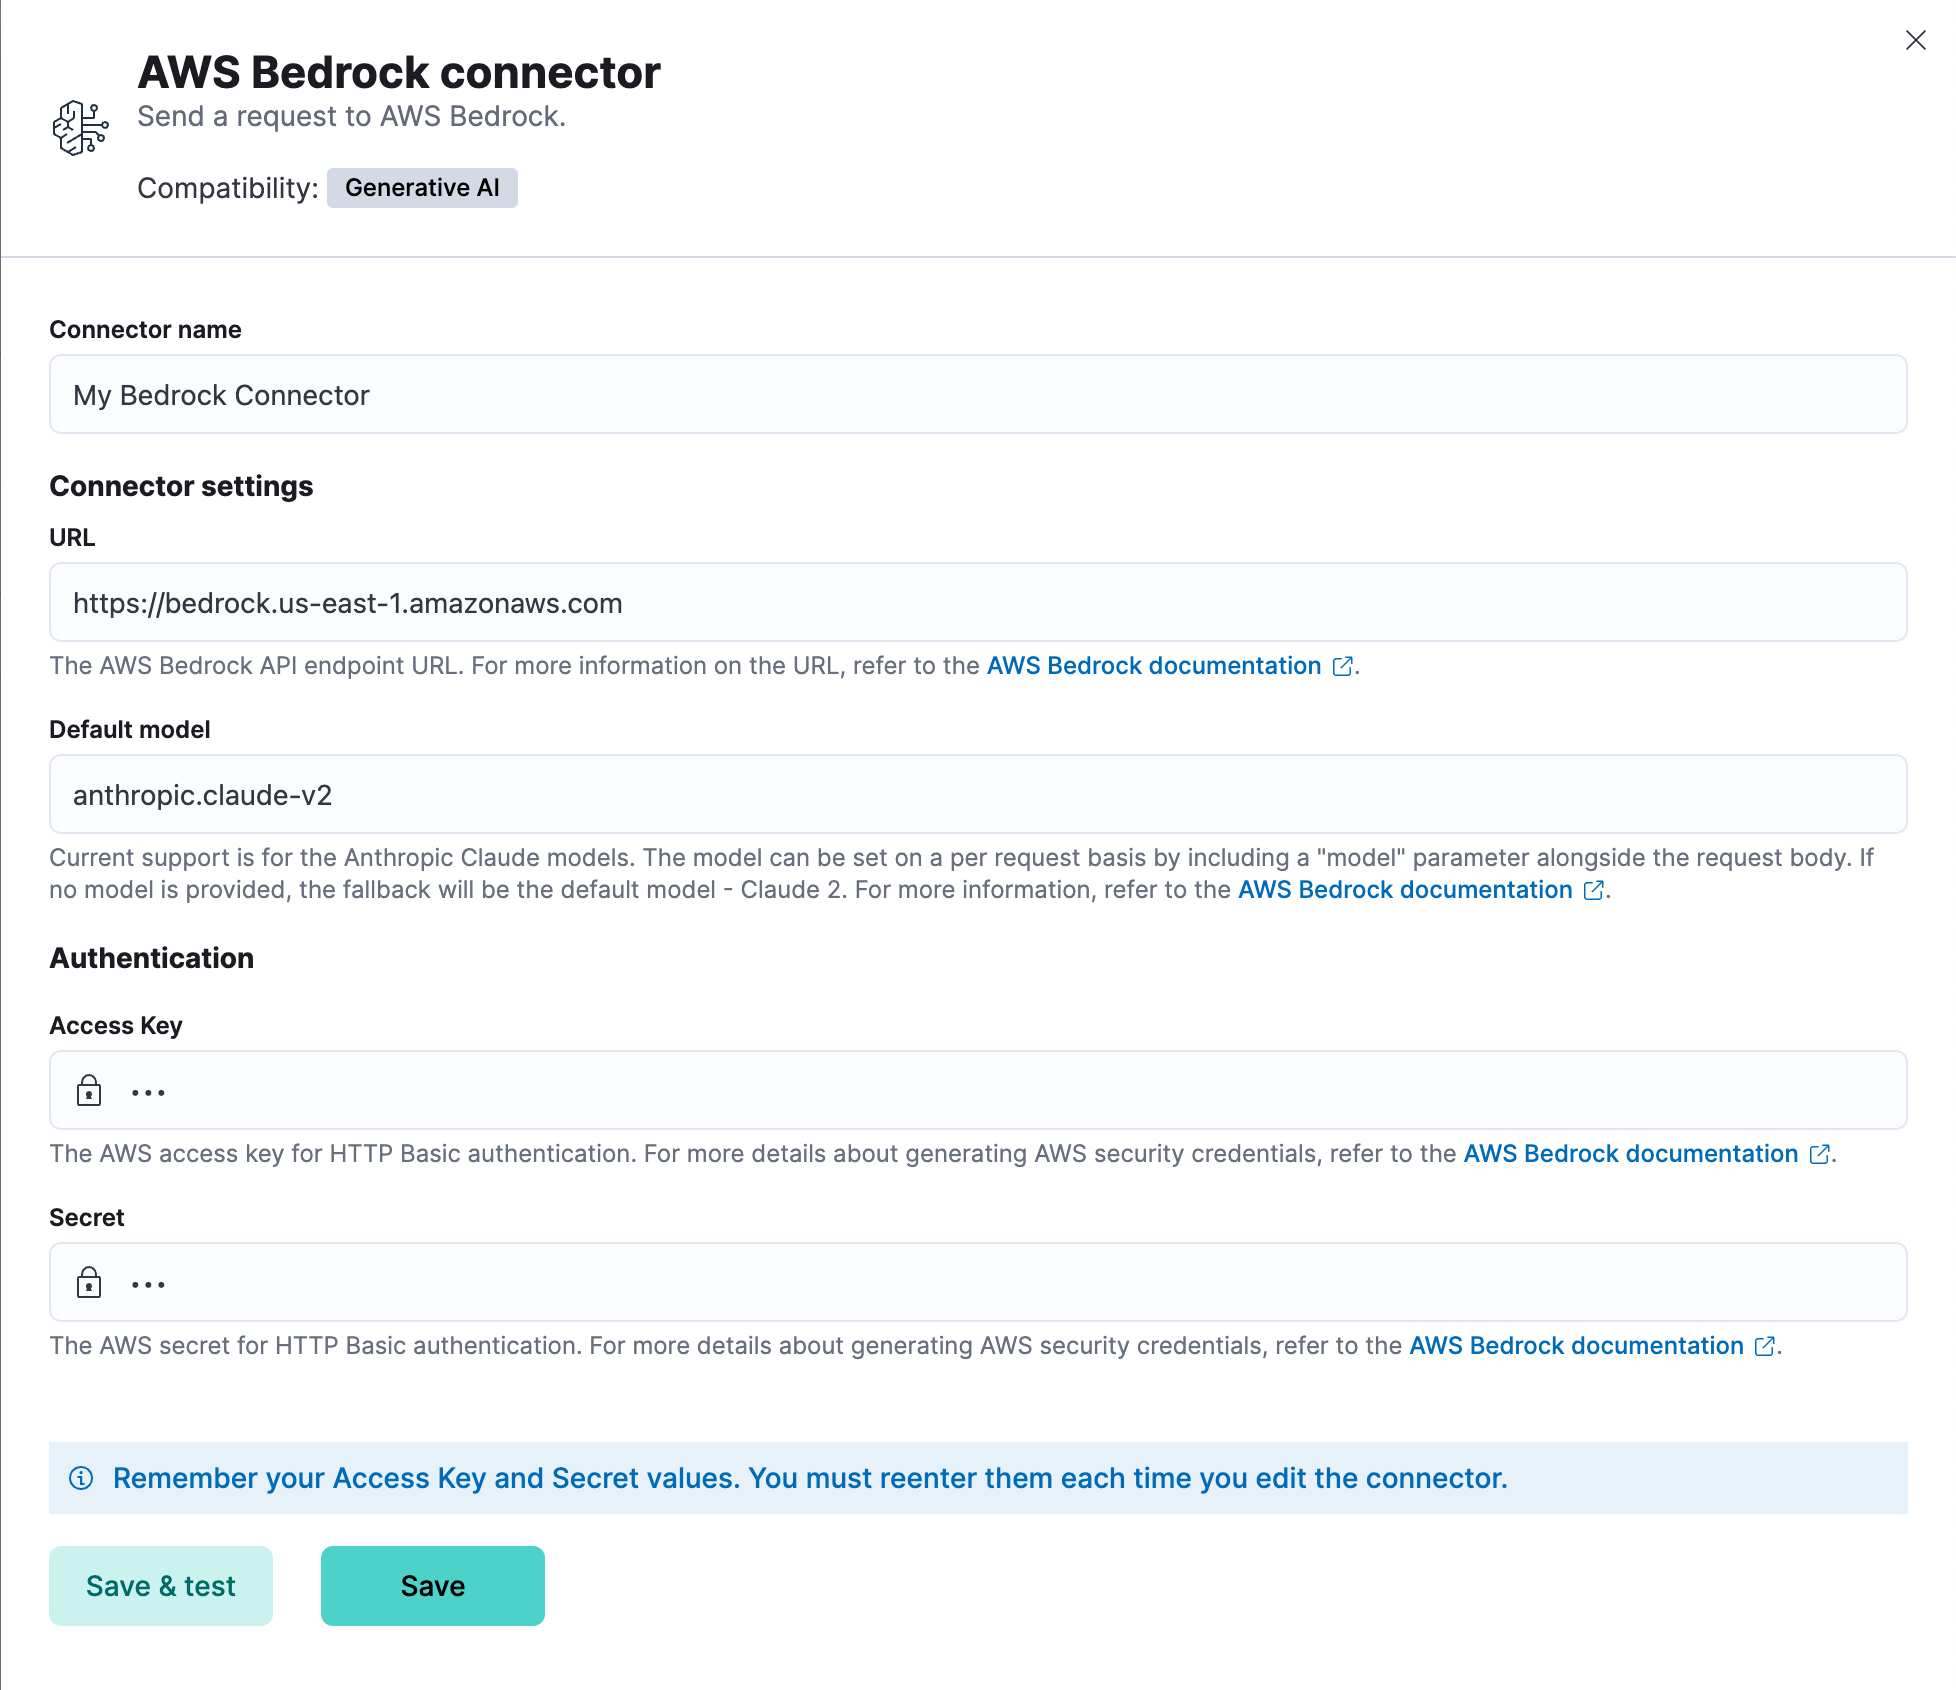
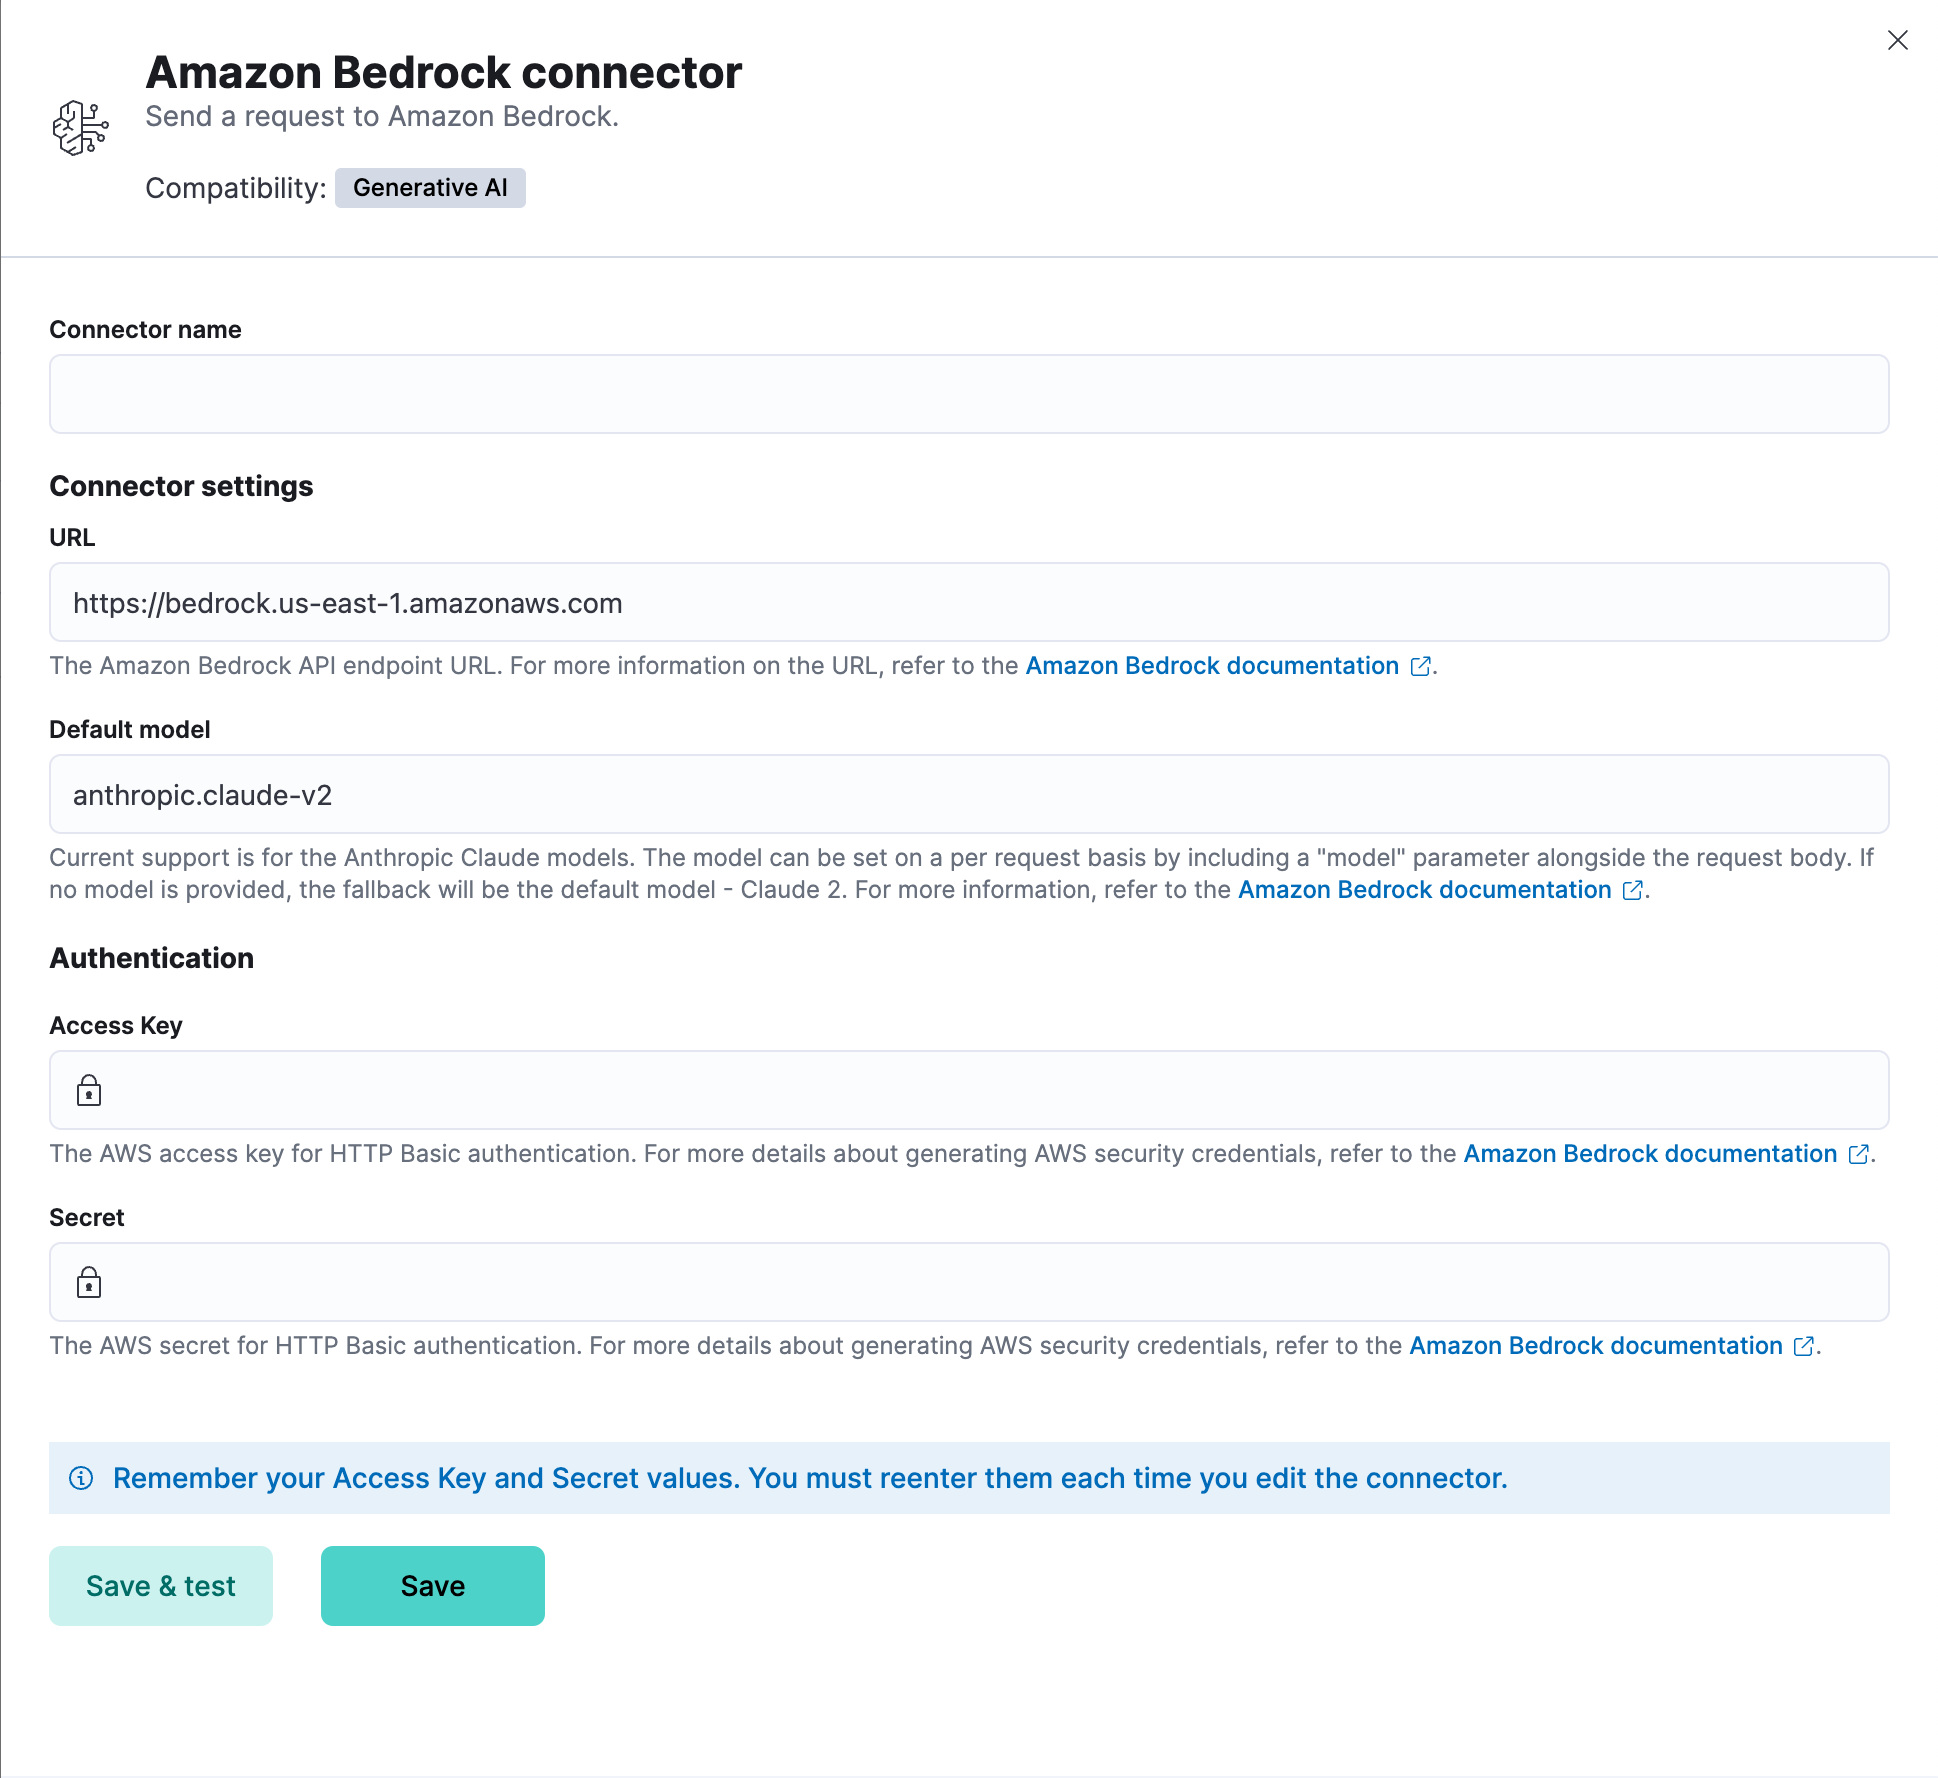
[Security solution] Rename connector from AWS Bedrock to Amazon Bedrock (#169025)

Changed region(s): [[0.0, 0.1846, 0.9907, 0.9846], [0.031, 0.0308, 0.3715, 0.1231]]

diff --git a/x-pack/plugins/stack_connectors/server/connector_types/bedrock/index.test.ts b/x-pack/plugins/stack_connectors/server/connector_types/bedrock/index.test.ts
@@ -33,9 +33,9 @@ describe('Bedrock Connector', () => {
     configurationUtilities = actionsConfigMock.create();
     connectorType = getConnectorType();
   });
-  test('exposes the connector as `AWS Bedrock` with id `.bedrock`', () => {
+  test('exposes the connector as `Amazon Bedrock` with id `.bedrock`', () => {
     expect(connectorType.id).toEqual('.bedrock');
-    expect(connectorType.name).toEqual('AWS Bedrock');
+    expect(connectorType.name).toEqual('Amazon Bedrock');
   });
   describe('config validation', () => {
     test('config validation passes when only required fields are provided', () => {
@@ -55,7 +55,7 @@ describe('Bedrock Connector', () => {
       expect(() => {
         configValidator(config, { configurationUtilities });
       }).toThrowErrorMatchingInlineSnapshot(
-        '"Error configuring AWS Bedrock action: Error: URL Error: Invalid URL: example.com/do-something"'
+        '"Error configuring Amazon Bedrock action: Error: URL Error: Invalid URL: example.com/do-something"'
       );
     });
 
@@ -75,7 +75,7 @@ describe('Bedrock Connector', () => {
       expect(() => {
         configValidator(config, { configurationUtilities: configUtils });
       }).toThrowErrorMatchingInlineSnapshot(
-        `"Error configuring AWS Bedrock action: Error: error validating url: target url is not present in allowedHosts"`
+        `"Error configuring Amazon Bedrock action: Error: error validating url: target url is not present in allowedHosts"`
       );
     });
   });

diff --git a/x-pack/test/alerting_api_integration/security_and_spaces/group2/tests/actions/connector_types/bedrock.ts b/x-pack/test/alerting_api_integration/security_and_spaces/group2/tests/actions/connector_types/bedrock.ts
@@ -160,7 +160,7 @@ export default function bedrockTest({ getService }: FtrProviderContext) {
               statusCode: 400,
               error: 'Bad Request',
               message:
-                'error validating action type config: Error configuring AWS Bedrock action: Error: error validating url: target url "http://bedrock.mynonexistent.com" is not added to the Kibana config xpack.actions.allowedHosts',
+                'error validating action type config: Error configuring Amazon Bedrock action: Error: error validating url: target url "http://bedrock.mynonexistent.com" is not added to the Kibana config xpack.actions.allowedHosts',
             });
           });
       });
@@ -280,7 +280,7 @@ export default function bedrockTest({ getService }: FtrProviderContext) {
             status: 'error',
             retry: true,
             message: 'an error occurred while running the action',
-            service_message: `Sub action "invalidAction" is not registered. Connector id: ${bedrockActionId}. Connector name: AWS Bedrock. Connector type: .bedrock`,
+            service_message: `Sub action "invalidAction" is not registered. Connector id: ${bedrockActionId}. Connector name: Amazon Bedrock. Connector type: .bedrock`,
           });
         });
       });

diff --git a/x-pack/packages/kbn-elastic-assistant/impl/connectorland/connector_selector_inline/action_type_selector_modal.tsx b/x-pack/packages/kbn-elastic-assistant/impl/connectorland/connector_selector_inline/action_type_selector_modal.tsx
@@ -18,6 +18,7 @@ import {
 } from '@elastic/eui';
 import { ActionType } from '@kbn/actions-plugin/common';
 import { ActionTypeRegistryContract } from '@kbn/triggers-actions-ui-plugin/public';
+import { css } from '@emotion/css/dist/emotion-css.cjs';
 import * as i18n from '../translations';
 
 interface Props {
@@ -26,6 +27,12 @@ interface Props {
   onClose: () => void;
   onSelect: (actionType: ActionType) => void;
 }
+const itemClassName = css`
+  .euiKeyPadMenuItem__label {
+    white-space: nowrap;
+    overflow: hidden;
+  }
+`;
 
 export const ActionTypeSelectorModal = ({
   actionTypes,
@@ -46,6 +53,7 @@ export const ActionTypeSelectorModal = ({
             return (
               <EuiFlexItem data-test-subj="action-option" key={actionType.id} grow={false}>
                 <EuiKeyPadMenuItem
+                  className={itemClassName}
                   key={actionType.id}
                   isDisabled={!actionType.enabled}
                   label={actionType.name}

diff --git a/x-pack/packages/kbn-elastic-assistant/impl/content/prompts/welcome/translations.ts b/x-pack/packages/kbn-elastic-assistant/impl/content/prompts/welcome/translations.ts
@@ -19,7 +19,7 @@ export const WELCOME_GENERAL_2 = i18n.translate(
   'xpack.elasticAssistant.securityAssistant.content.prompts.welcome.welcomeGeneral2Prompt',
   {
     defaultMessage:
-      "First things first, we'll need to set up a Generative AI Connector to get this chat experience going! With the Generative AI Connector, you'll be able to configure access to either an OpenAI service or an AWS Bedrock service, but you better believe you'll be able to deploy your own models within your Elastic Cloud instance and use those here in the future... 😉",
+      "First things first, we'll need to set up a Generative AI Connector to get this chat experience going! With the Generative AI Connector, you'll be able to configure access to either an OpenAI service or an Amazon Bedrock service, but you better believe you'll be able to deploy your own models within your Elastic Cloud instance and use those here in the future... 😉",
   }
 );
 

diff --git a/x-pack/plugins/elastic_assistant/server/routes/evaluate/utils.ts b/x-pack/plugins/elastic_assistant/server/routes/evaluate/utils.ts
@@ -23,7 +23,7 @@ export const getLlmType = (connectorId: string, connectors: ActionResult[]): str
     // See: https://github.com/langchain-ai/langchainjs/blob/fb699647a310c620140842776f4a7432c53e02fa/langchain/src/agents/openai/index.ts#L185
     return 'openai';
   }
-  // TODO: Add support for AWS Bedrock Connector once merged
+  // TODO: Add support for Amazon Bedrock Connector once merged
   // Note: Doesn't appear to be a difference between Azure and OpenAI LLM types, so TBD for functions agent on Azure
   // See: https://github.com/langchain-ai/langchainjs/blob/fb699647a310c620140842776f4a7432c53e02fa/langchain/src/llms/openai.ts#L539
 

diff --git a/x-pack/plugins/stack_connectors/public/connector_types/bedrock/constants.tsx b/x-pack/plugins/stack_connectors/public/connector_types/bedrock/constants.tsx
@@ -33,7 +33,7 @@ export const bedrockConfig: ConfigFieldSchema[] = [
     defaultValue: DEFAULT_BEDROCK_URL,
     helpText: (
       <FormattedMessage
-        defaultMessage="The AWS Bedrock API endpoint URL. For more information on the URL, refer to the {bedrockAPIUrlDocs}."
+        defaultMessage="The Amazon Bedrock API endpoint URL. For more information on the URL, refer to the {bedrockAPIUrlDocs}."
         id="xpack.stackConnectors.components.bedrock.bedrockDocumentation"
         values={{
           bedrockAPIUrlDocs: (

diff --git a/x-pack/plugins/stack_connectors/public/connector_types/bedrock/bedrock.test.tsx b/x-pack/plugins/stack_connectors/public/connector_types/bedrock/bedrock.test.tsx
@@ -26,8 +26,8 @@ beforeAll(() => {
 describe('actionTypeRegistry.get() works', () => {
   test('connector type static data is as expected', () => {
     expect(actionTypeModel.id).toEqual(ACTION_TYPE_ID);
-    expect(actionTypeModel.selectMessage).toBe('Send a request to AWS Bedrock.');
-    expect(actionTypeModel.actionTypeTitle).toBe('AWS Bedrock');
+    expect(actionTypeModel.selectMessage).toBe('Send a request to Amazon Bedrock.');
+    expect(actionTypeModel.actionTypeTitle).toBe('Amazon Bedrock');
   });
 });
 

diff --git a/x-pack/plugins/stack_connectors/public/connector_types/bedrock/bedrock.tsx b/x-pack/plugins/stack_connectors/public/connector_types/bedrock/bedrock.tsx
@@ -21,7 +21,7 @@ export function getConnectorType(): BedrockConnector {
     id: BEDROCK_CONNECTOR_ID,
     iconClass: lazy(() => import('./logo')),
     selectMessage: i18n.translate('xpack.stackConnectors.components.bedrock.selectMessageText', {
-      defaultMessage: 'Send a request to AWS Bedrock.',
+      defaultMessage: 'Send a request to Amazon Bedrock.',
     }),
     actionTypeTitle: BEDROCK_TITLE,
     validateParams: async (

diff --git a/x-pack/plugins/stack_connectors/server/connector_types/bedrock/index.ts b/x-pack/plugins/stack_connectors/server/connector_types/bedrock/index.ts
@@ -43,7 +43,7 @@ export const configValidator = (configObject: Config, validatorServices: Validat
   } catch (err) {
     throw new Error(
       i18n.translate('xpack.stackConnectors.bedrock.configurationErrorApiProvider', {
-        defaultMessage: 'Error configuring AWS Bedrock action: {err}',
+        defaultMessage: 'Error configuring Amazon Bedrock action: {err}',
         values: {
           err,
         },

diff --git a/x-pack/plugins/stack_connectors/public/connector_types/bedrock/translations.ts b/x-pack/plugins/stack_connectors/public/connector_types/bedrock/translations.ts
@@ -40,7 +40,7 @@ export const SECRET = i18n.translate('xpack.stackConnectors.components.bedrock.s
 });
 
 export const BEDROCK = i18n.translate('xpack.stackConnectors.components.bedrock.title', {
-  defaultMessage: 'AWS Bedrock',
+  defaultMessage: 'Amazon Bedrock',
 });
 
 export const DOCUMENTATION = i18n.translate(

diff --git a/x-pack/plugins/stack_connectors/server/plugin.test.ts b/x-pack/plugins/stack_connectors/server/plugin.test.ts
@@ -164,7 +164,7 @@ describe('Stack Connectors Plugin', () => {
         4,
         expect.objectContaining({
           id: '.bedrock',
-          name: 'AWS Bedrock',
+          name: 'Amazon Bedrock',
         })
       );
       expect(actionsSetup.registerSubActionConnectorType).toHaveBeenNthCalledWith(

diff --git a/x-pack/plugins/stack_connectors/common/bedrock/constants.ts b/x-pack/plugins/stack_connectors/common/bedrock/constants.ts
@@ -10,7 +10,7 @@ import { i18n } from '@kbn/i18n';
 export const BEDROCK_TITLE = i18n.translate(
   'xpack.stackConnectors.components.bedrock.connectorTypeTitle',
   {
-    defaultMessage: 'AWS Bedrock',
+    defaultMessage: 'Amazon Bedrock',
   }
 );
 export const BEDROCK_CONNECTOR_ID = '.bedrock';
